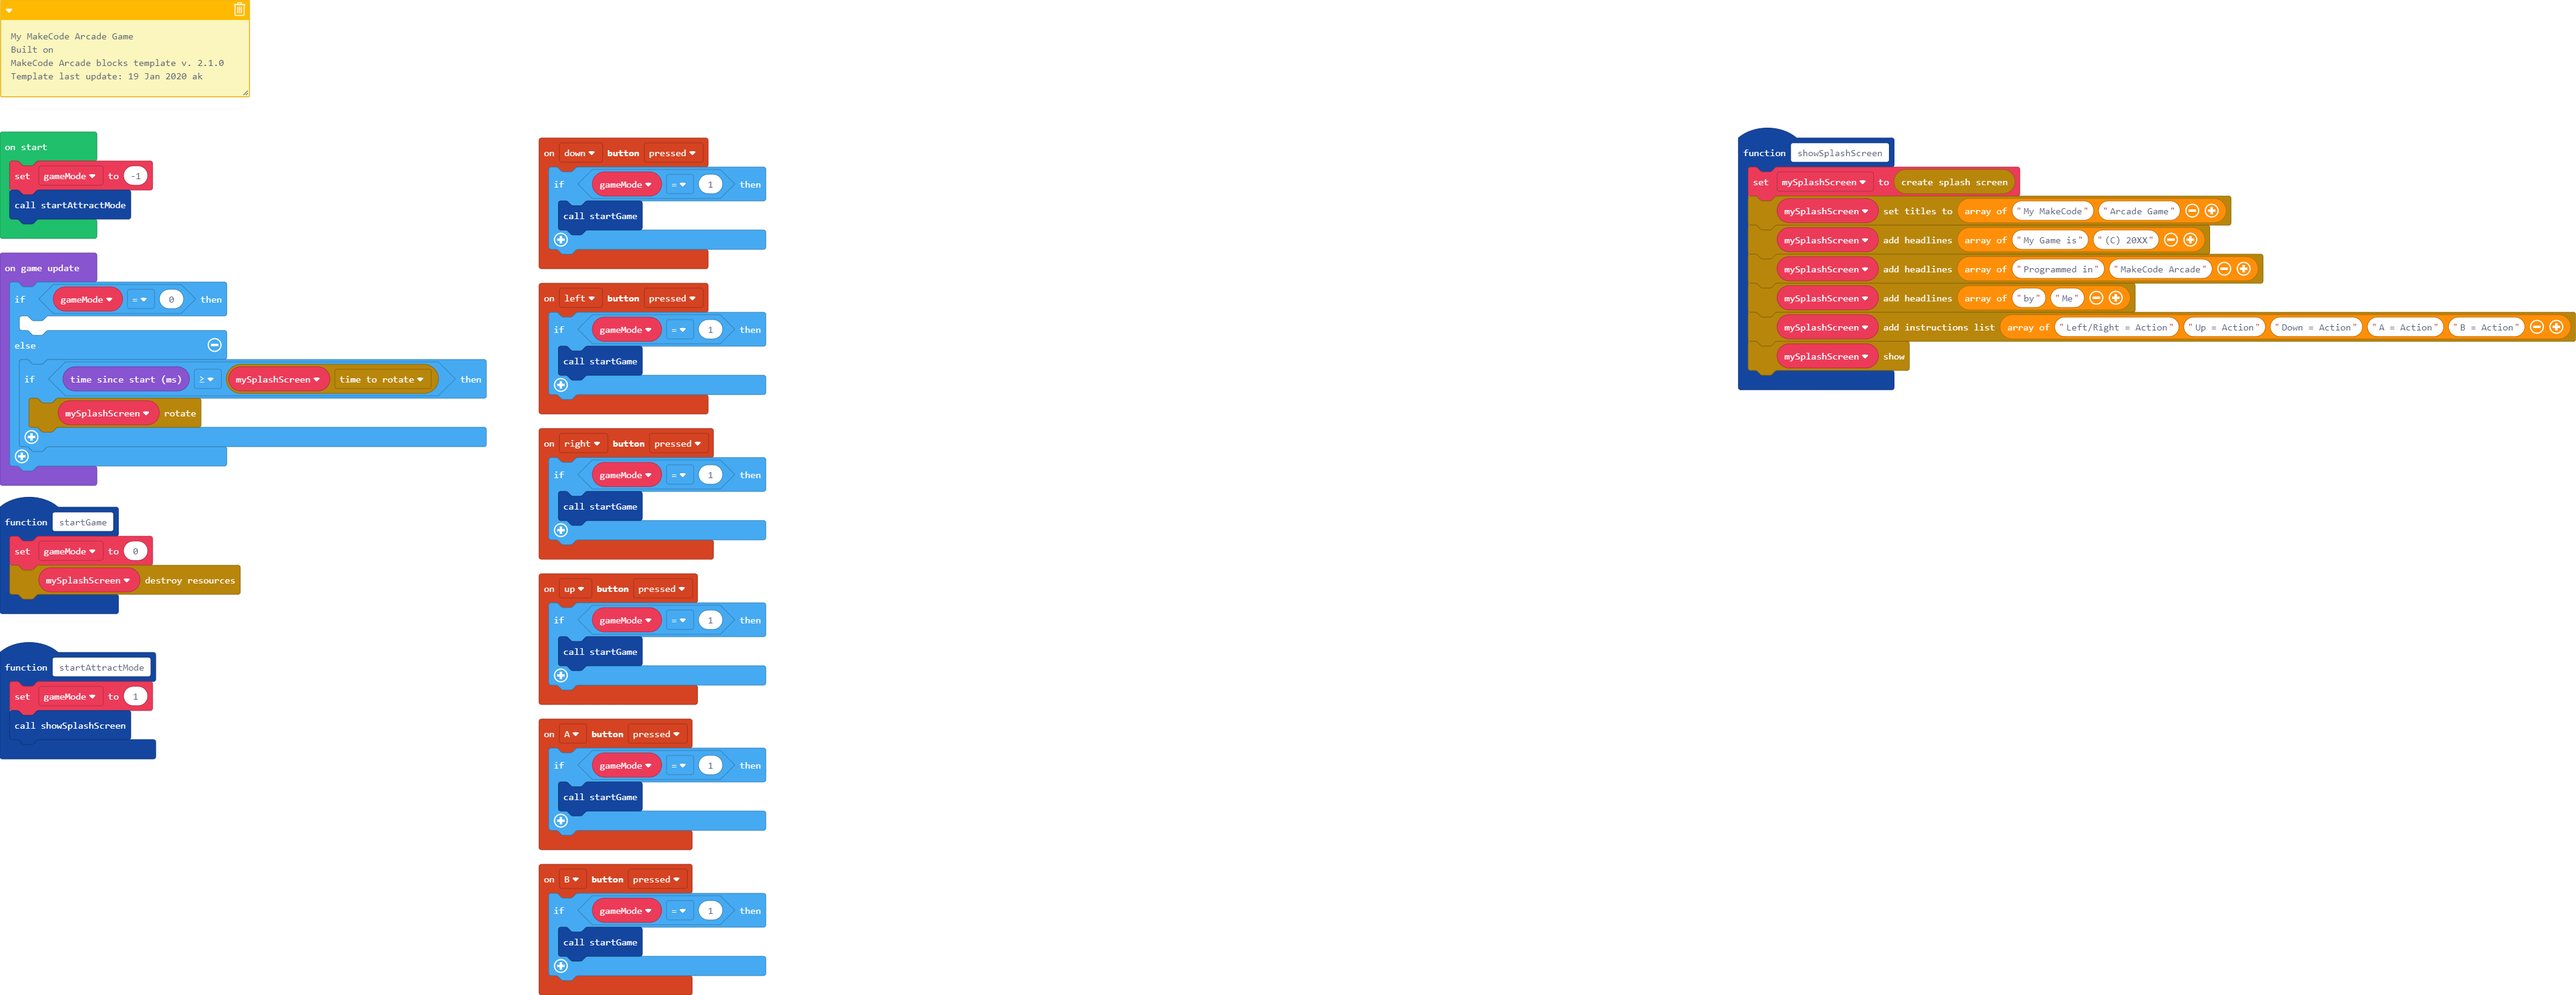
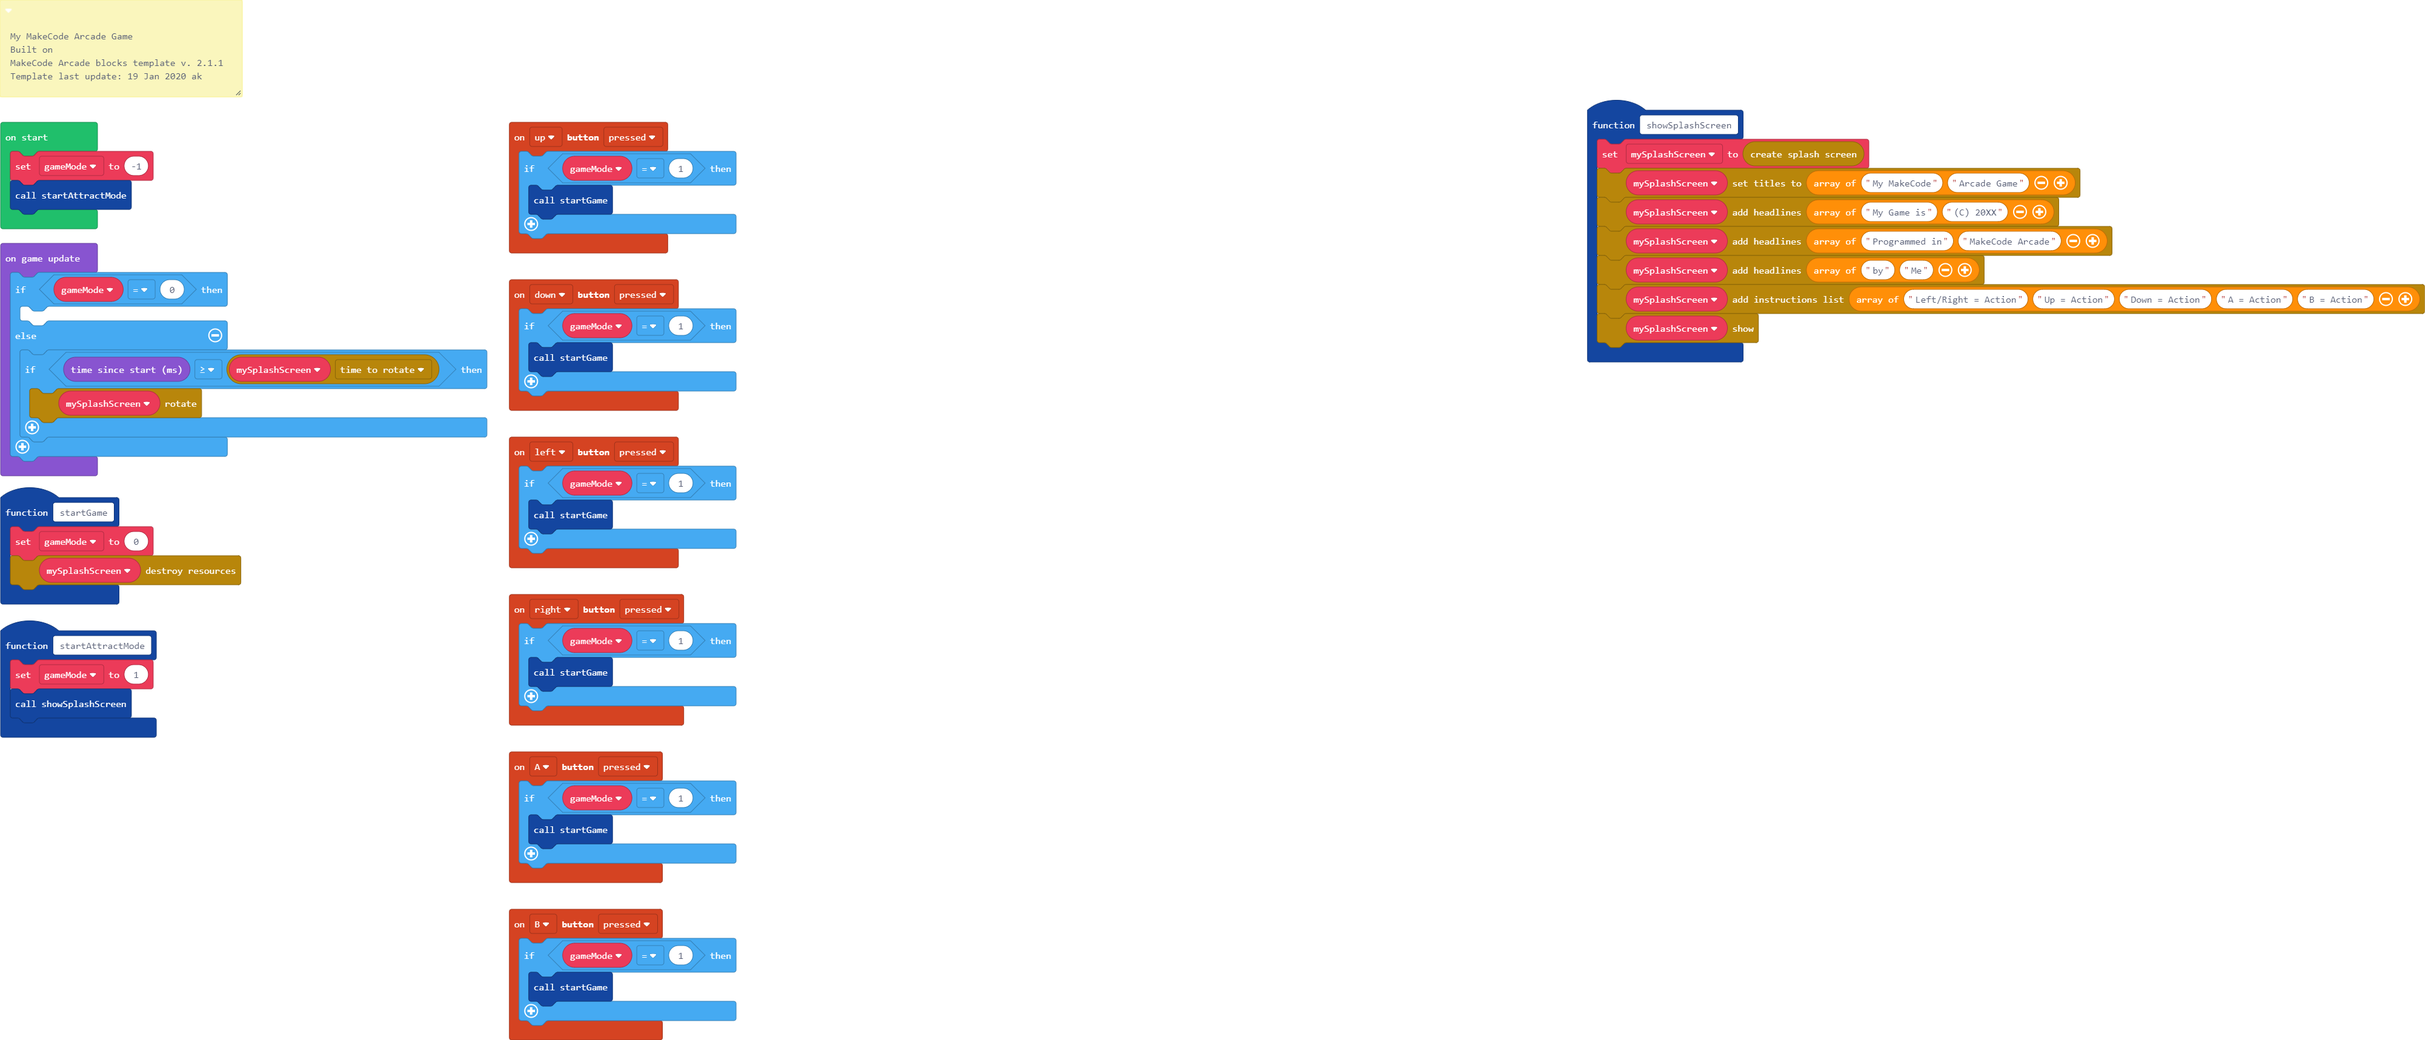
Rearrange blocks; correct JavaScript weirdness

Changed region(s): [[0.0, 0.0, 0.3123, 1.0], [0.6558, 0.0931, 1.0, 0.4033]]

diff --git a/main.ts b/main.ts
@@ -3,7 +3,7 @@
  * 
  * Built on
  * 
- * MakeCode Arcade blocks template v. 2.1.0
+ * MakeCode Arcade blocks template v. 2.1.1
  * 
  * Template last update: 19 Jan 2020 ak
  */
